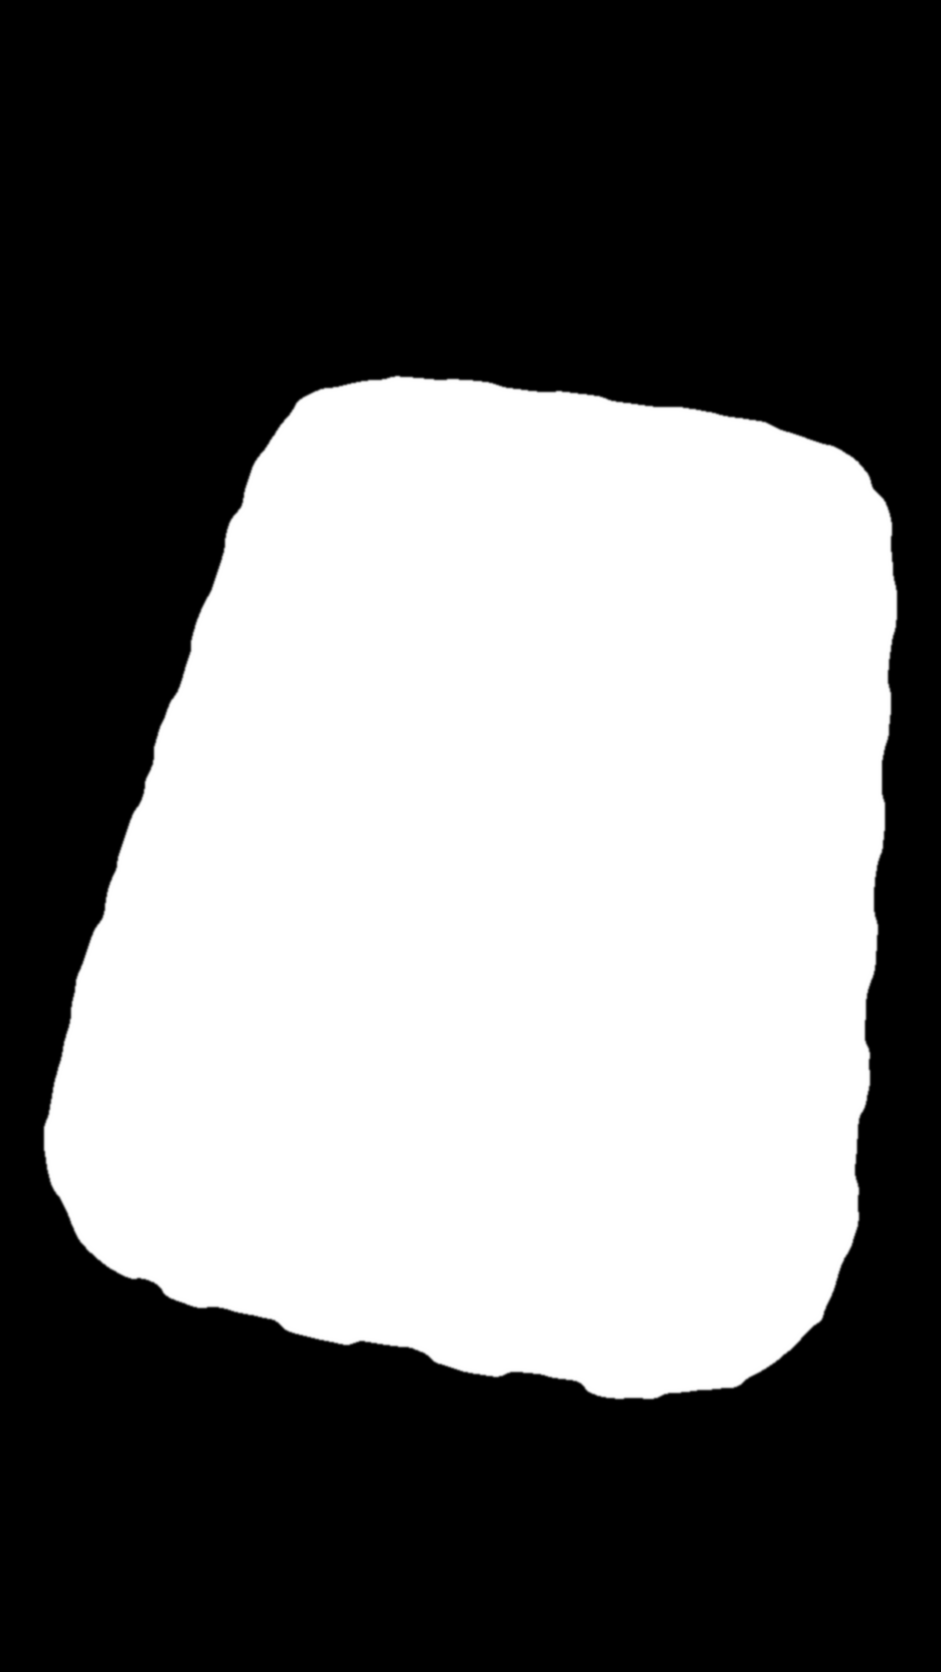
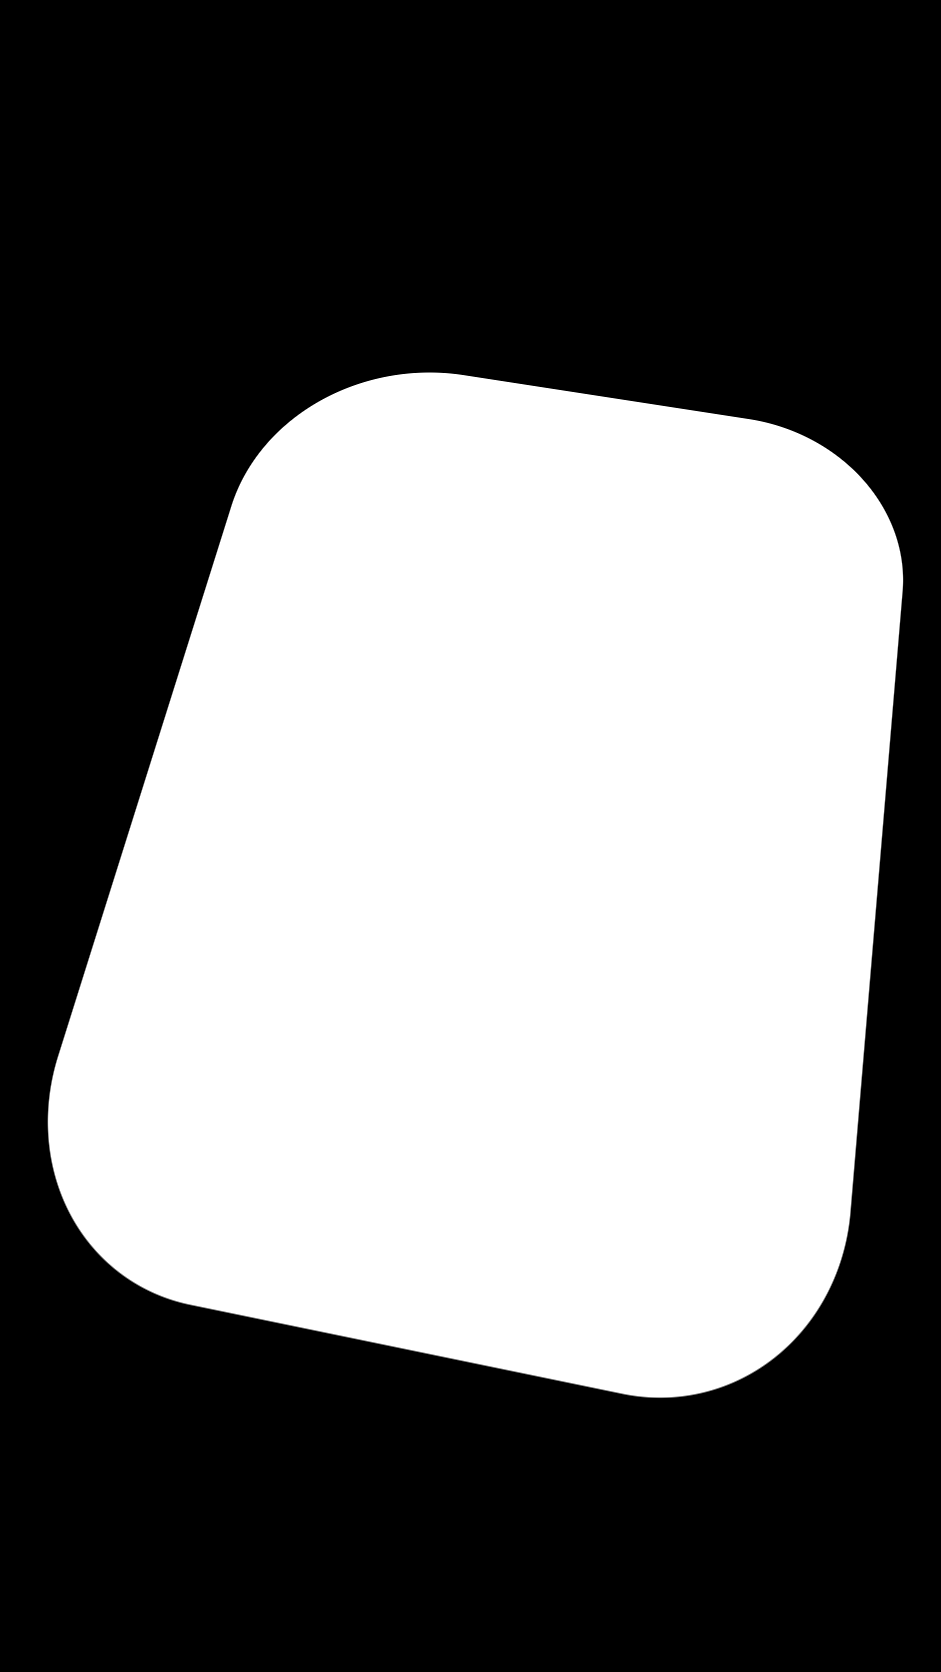
fix: smooth board edge - mask is a fitted rounded rectangle
The painted rim is notched where the old painted squares met it, and the traced mask followed those notches. BoardMask.png is now a clean rounded rectangle in board space (sides and corner radii fitted to the painted surface, 0.03 cell inside it) drawn through the board's perspective map (tools/board_mask.py). The baked board texture is keyed on the mask too, so a new mask is picked up at once. Tests: EditMode 52/52, PlayMode 11/11.

diff --git a/Assets/FishOut/Runtime/PaintedBackdrop.cs b/Assets/FishOut/Runtime/PaintedBackdrop.cs
@@ -399,7 +399,7 @@ namespace FishOut
             // painting's own rim and crease are left to show; otherwise the rim and shadow are drawn here.
             var mask = Resources.Load<Texture2D>(BoardMaskResource);
             bool masked = mask && mask.isReadable;
-            string key = level.width + "x" + level.height + "|" + cal.topLeft + cal.topRight + cal.bottomRight + cal.bottomLeft + "|" + cal.radiusTopLeft + "," + cal.radiusTopRight + "," + cal.radiusBottomRight + "," + cal.radiusBottomLeft + "," + cal.edgeOffset + "," + cal.checker + "," + masked;
+            string key = level.width + "x" + level.height + "|" + cal.topLeft + cal.topRight + cal.bottomRight + cal.bottomLeft + "|" + cal.radiusTopLeft + "," + cal.radiusTopRight + "," + cal.radiusBottomRight + "," + cal.radiusBottomLeft + "," + cal.edgeOffset + "," + cal.checker + "," + (masked ? mask.GetInstanceID() + ":" + mask.updateCount : "none");
             if (topTexture && topKey == key) return topTexture;
             Release(topTexture);
             var outline = OutlineGrid(level).ToArray(); int n = outline.Length; float area = 0;
